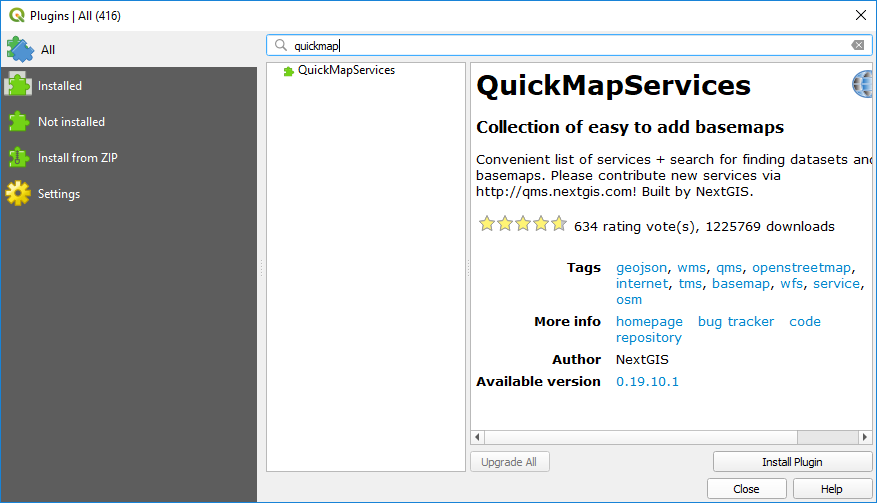
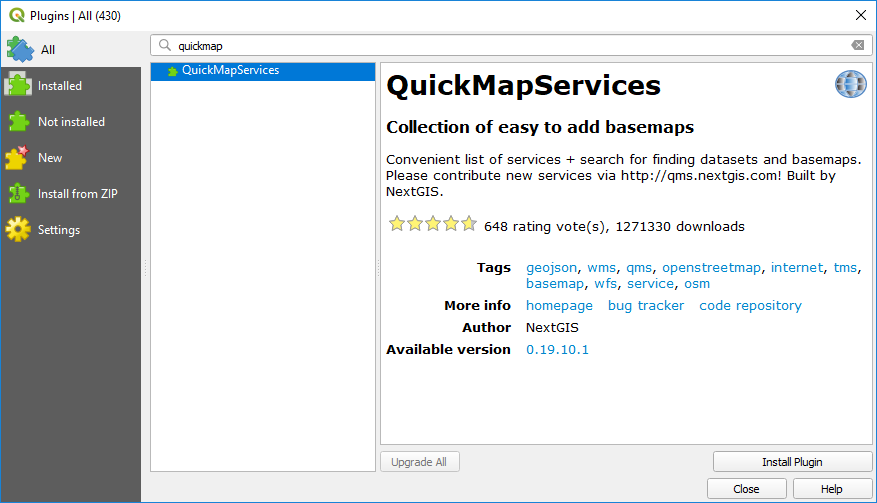
Remove QMS contributed pack, search for DoITT layers
Closes #43

diff --git a/index.html b/index.html
@@ -1178,20 +1178,24 @@ class:center,middle
 ---
 
 # Setting Up QuickMapServices Plugin
-+ Go to the Settings Menu
-![img-center-80](images/qgis-qms-0.png)
++ Go to Search QMS
+![img-center-50](images/qgis-qms-0.png)
 
 ---
 
 # Setting Up QuickMapServices Plugin
-+ Get the contributed packs
-![img-center-80](images/qgis-qms-1.png)
+
++ You'll see a search box
+
+![img-center-90](images/qgis-qms-1.png)
 
 ---
 
 # Setting Up QuickMapServices Plugin
-+ Revel in all the beautiful base maps
-![img-center-35](images/qgis-qms-2.png)
+
++ Search for **NYC** to find some City-created base maps
+
+![img-center-90](images/qgis-qms-2.png)
 
 ---
 
